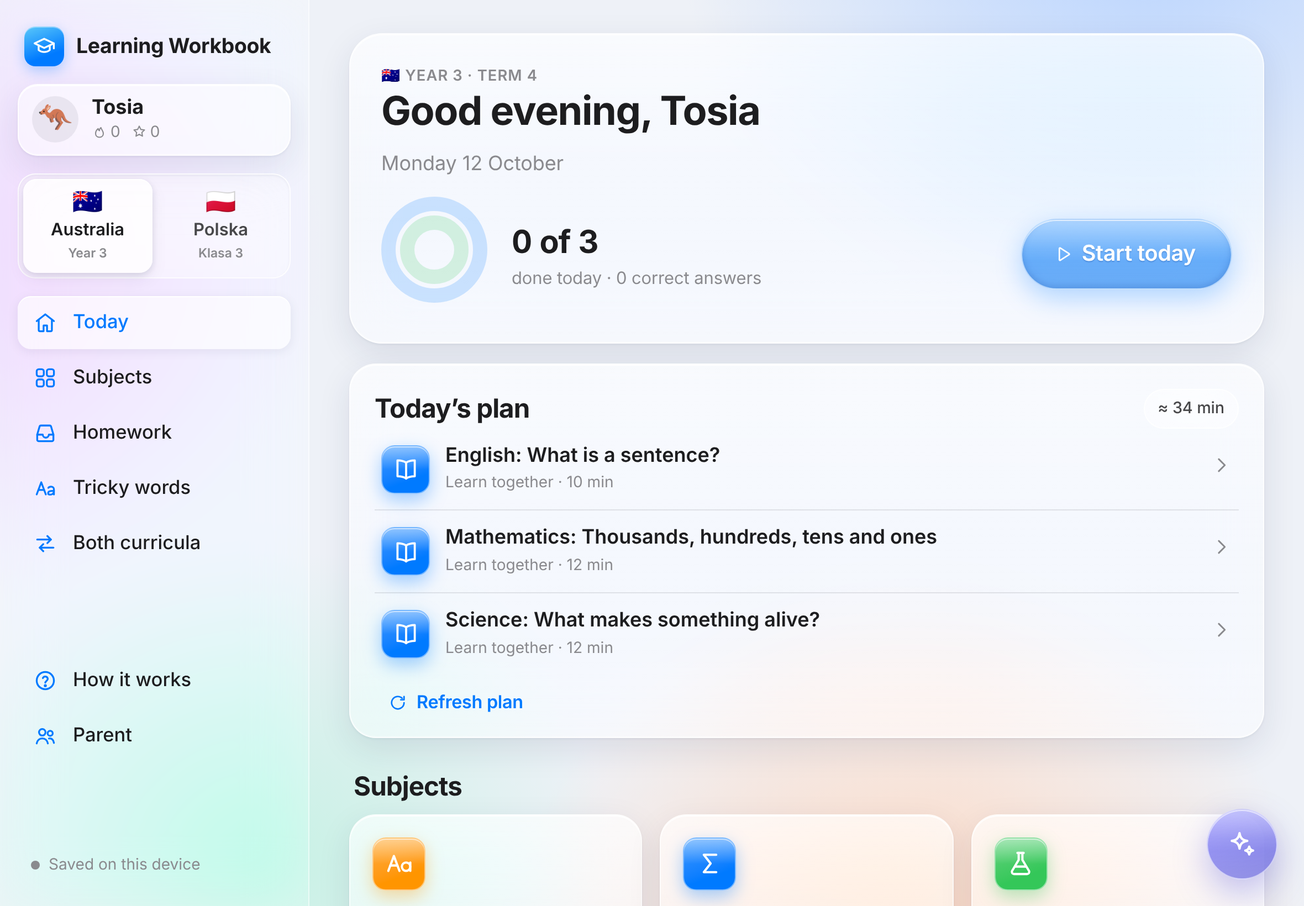
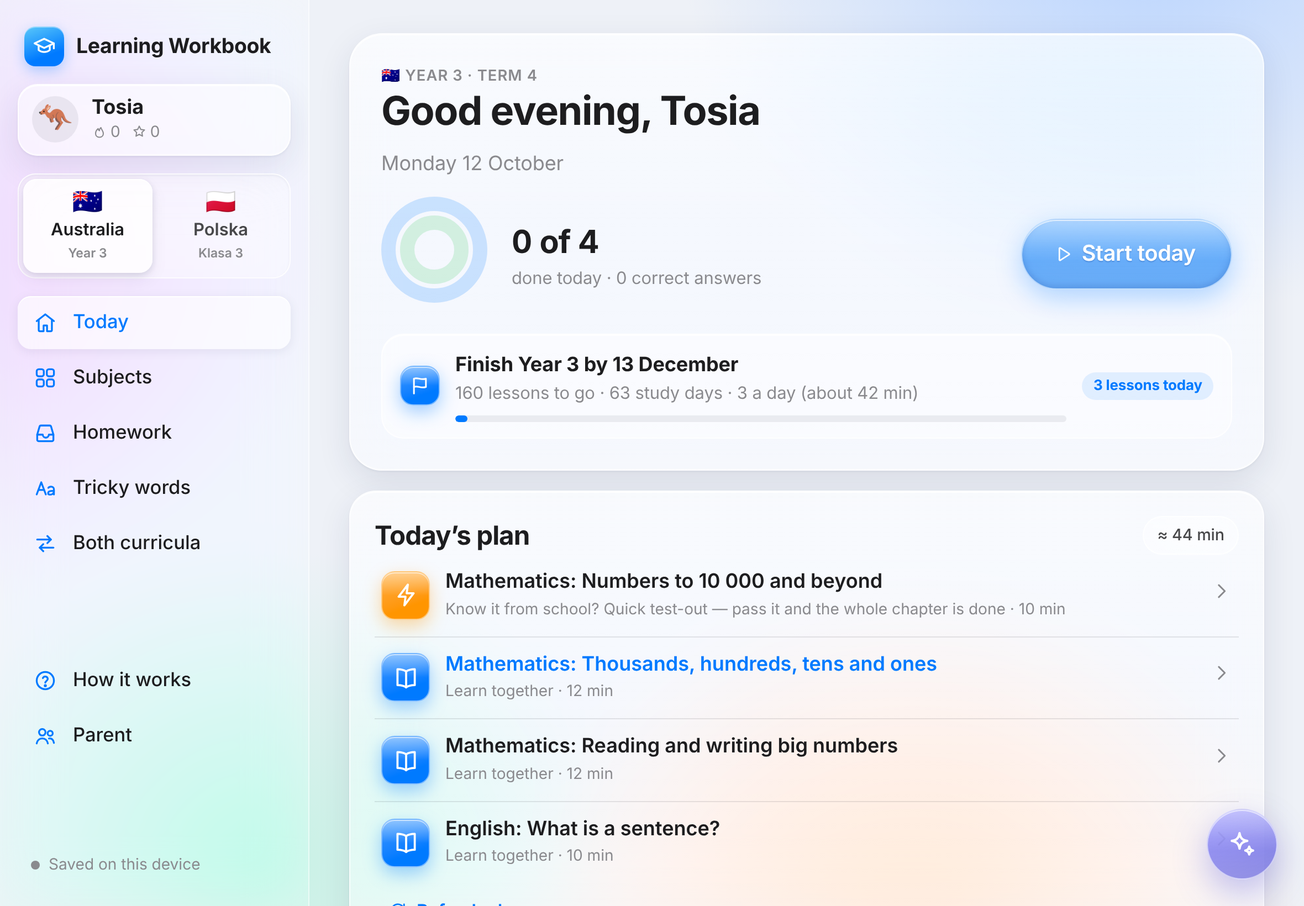
Catch-up mode (finish Year 3 by a target date), setup guide, README, validator
Claude-Session: https://claude.ai/code/session_01VZpCSckw4gYLT4VWM9Vsqh

diff --git a/learn/js/core/tutor.js b/learn/js/core/tutor.js
@@ -13,6 +13,19 @@
   T.PASS_CHALLENGE = 0.75;
   T.PASS_EXAM = 0.85;
 
+  /* next step in a subject, skipping lessons/quizzes already picked for today's plan */
+  T.upcoming = (subj, picked) => {
+    const start = T.startIndex(subj);
+    for (let i = start; i < subj.chapters.length; i++) {
+      const ch = subj.chapters[i];
+      if (S.isChapterPassed(ch.key)) continue;
+      const lesson = ch.lessons.find((l) => !S.isLessonDone(l.key) && !picked.has(l.key));
+      if (lesson) return { kind: 'lesson', chapter: ch, lesson };
+      if (ch.lessons.some((l) => picked.has(l.key))) continue; // quiz comes after today's lessons are done
+      if (!picked.has('quiz:' + ch.key)) return { kind: 'quiz', chapter: ch };
+    }
+    return null;
+  };
   T.subjects = (prog) => (LA.curriculum[S.ck(prog)] || { subjects: [] }).subjects;
   T.startIndex = (subj) => S.P().startPoints[subj.key] || 0;
 
@@ -26,6 +39,46 @@
       return { kind: 'quiz', chapter: ch };
     }
     return null;
+  };
+
+  /* ---------- catch-up to a target date ---------- */
+  T.target = (prog) => { const t = ((S.settings().target || {})[prog] || '').trim(); return /^\d{4}-\d{2}-\d{2}$/.test(t) ? t : null; };
+  const isStudyDay = (d) => { const mode = S.settings().studyDays || 'all'; const w = d.getDay(); return mode === 'all' || (mode === 'mon-sat' ? w !== 0 : w !== 0 && w !== 6); };
+  T.studyDaysBetween = (from, toKey) => {
+    const end = new Date(toKey + 'T23:59:59');
+    const d = new Date(from.getFullYear(), from.getMonth(), from.getDate());
+    let n = 0;
+    while (d <= end && n < 400) { if (isStudyDay(d)) n++; d.setDate(d.getDate() + 1); }
+    return n;
+  };
+  /* lessons still to do (chapters already passed or tested out count as done) */
+  T.remaining = (subj) => {
+    let n = 0;
+    const start = T.startIndex(subj);
+    subj.chapters.forEach((ch, i) => { if (i < start || S.isChapterPassed(ch.key)) return; ch.lessons.forEach((l) => { if (!S.isLessonDone(l.key)) n++; }); });
+    return n;
+  };
+  T.lessonsDoneOn = (prog, dayKey) => {
+    const pre = LA.PROGRAMMES[prog].prefix(S.yearFor(prog)) + '.';
+    const L = S.P().lessons;
+    return Object.keys(L).filter((k) => k.startsWith(pre) && L[k].done && L[k].at && U.todayKey(new Date(L[k].at)) === dayKey).length;
+  };
+  T.catchUp = (prog) => {
+    const t = T.target(prog);
+    if (!t || !S.P()) return null;
+    const enrichOn = (S.settings().enrichment || {})[prog] !== false;
+    const subs = T.subjects(prog).filter((s) => enrichOn || !s.enrichment);
+    const bySubject = subs.map((s) => ({ s, left: T.remaining(s) }));
+    const left = bySubject.reduce((a, x) => a + x.left, 0);
+    const today = new Date();
+    const doneToday = T.lessonsDoneOn(prog, U.todayKey());
+    const days = Math.max(1, T.studyDaysBetween(today, t));
+    // today's quota counts lessons already done today, so it doesn't grow during the day
+    const perDay = left + doneToday === 0 ? 0 : Math.ceil((left + doneToday) / days);
+    const todo = Math.max(0, perDay - doneToday);
+    const past = new Date(t + 'T23:59:59') < today;
+    const level = perDay <= 3 ? 'comfortable' : perDay <= 5 ? 'busy' : 'heavy';
+    return { target: t, left, days, perDay, doneToday, todo, past, level, bySubject, minutes: perDay * 14 };
   };
 
   T.subjectStats = (subj) => {
@@ -174,7 +227,7 @@
   const ALT_DAYS = [[1, 3, 5, 0], [2, 4, 6]];
   const ENRICH_DAYS = [3, 5, 6];
 
-  T.planToday = (prog, force) => {
+  T.planToday = (prog, force, extra) => {
     const P = S.P();
     const key = U.todayKey() + '|' + prog;
     if (P.homework[key] && !force) return P.homework[key];
@@ -196,13 +249,33 @@
       .forEach((k) => add({ kind: 'hw', ref: k, title: `${sname(k)}: ${LA.index.lessons[k].title}` }, MIN.hw));
 
     // 3. new lessons to learn together
+    const cu = T.catchUp(prog);
+    if (cu && !cu.past && cu.left > 0) {
+      // Catch-up mode: schedule today's quota, spread over the subjects with the most left to do
+      const queue = cu.bySubject.filter((x) => x.left > 0).map((x) => ({ s: x.s, left: x.left, taken: 0 }));
+      let need = cu.todo + (extra || 0);
+      // offer one quick test-out for a fresh chapter she may already know from school (saves a whole chapter)
+      const fresh = queue.slice().sort((a, b) => (['maths', 'matematyka'].includes(b.s.id) ? 1 : 0) - (['maths', 'matematyka'].includes(a.s.id) ? 1 : 0)).map((x) => T.nextStep(x.s)).find((st) => st && st.chapter.bridge && st && st.kind === 'lesson' && st.chapter.lessons.every((l) => !S.isLessonDone(l.key)) && !(S.chapter(st.chapter.key) && S.chapter(st.chapter.key).attempts.length) && st.chapter.lessons.length >= 3);
+      if (fresh && need > 0) add({ kind: 'testout', ref: fresh.chapter.key, title: `${sname(fresh.chapter.key)}: ${fresh.chapter.title}`, subject: fresh.chapter.subjectKey }, MIN.quiz);
+      const picked = new Set();
+      for (let guard = 0; need > 0 && guard < 60; guard++) {
+        queue.sort((a, b) => (b.left - b.taken * 3) - (a.left - a.taken * 3));
+        const q = queue[0];
+        if (!q || q.left - q.taken <= 0) break;
+        const st = T.upcoming(q.s, picked);
+        if (!st) { q.left = 0; continue; }
+        q.taken++;
+        if (st.kind === 'lesson') { picked.add(st.lesson.key); add({ kind: 'lesson', ref: st.lesson.key, title: `${q.s.name}: ${st.lesson.title}`, subject: q.s.id }, st.lesson.minutes || MIN.lesson); need--; }
+        else { picked.add('quiz:' + st.chapter.key); add({ kind: 'quiz', ref: st.chapter.key, title: `${q.s.name}: ${LA.tr('check-up quiz', 'sprawdzian')} — ${st.chapter.title}`, subject: q.s.id }, MIN.quiz); }
+      }
+    }
     const w = new Date().getDay();
     const core = subs.filter((s) => ['english', 'maths', 'polski', 'matematyka'].includes(s.id));
     const alt = subs.filter((s) => !s.enrichment && !core.includes(s));
     const enrich = (S.settings().enrichment || {})[prog] !== false ? subs.filter((s) => s.enrichment) : [];
     const todays = core.concat(alt.filter((s, i) => ALT_DAYS[i % 2].includes(w))).concat(enrich.filter((s, i) => ENRICH_DAYS[i % 3] === w));
     const others = alt.concat(enrich).filter((s) => !todays.includes(s));
-    for (const s of todays.concat(others)) {
+    for (const s of (cu && !cu.past && cu.left > 0 ? [] : todays.concat(others))) {
       if (used >= budget && items.some((i) => i.kind === 'lesson' || i.kind === 'quiz')) break;
       const step = T.nextStep(s);
       if (!step) continue;
@@ -210,7 +283,7 @@
       else add({ kind: 'quiz', ref: step.chapter.key, title: `${s.name}: ${LA.tr('check-up quiz', 'sprawdzian')} — ${step.chapter.title}`, subject: s.id }, MIN.quiz);
     }
     // catch-up: one more lesson in the subject most behind
-    if (used < budget) {
+    if (used < budget && !(cu && cu.left > 0)) {
       const most = subs.map((s) => ({ s, st: T.subjectStats(s) })).filter((x) => x.st.behind > 0).sort((a, b) => b.st.behind - a.st.behind)[0];
       if (most) {
         const step = T.nextStep(most.s);

diff --git a/learn/js/ui/views.js b/learn/js/ui/views.js
@@ -221,29 +221,54 @@
         h('div', { style: { flex: 1, minWidth: '180px' } },
           h('div.ring-num', total ? `${doneN} ${tr('of', 'z')} ${total}` : tr('All done', 'Gotowe')),
           h('div.small.muted', tr(`done today · ${today.correct || 0} correct answers`, `zrobione dziś · ${today.correct || 0} dobrych odpowiedzi`))),
-        nextItem ? h('button.btn.big', { type: 'button', onclick: () => openPlanItem(nextItem) }, LA.icon('play', 18), doneN ? tr('Continue', 'Dalej') : tr('Start today', 'Zaczynamy')) : null)));
+        nextItem ? h('button.btn.big', { type: 'button', onclick: () => openPlanItem(nextItem) }, LA.icon('play', 18), doneN ? tr('Continue', 'Dalej') : tr('Start today', 'Zaczynamy')) : null),
+      catchUpBar(prog)));
 
     const planCard = h('div.card', { style: { marginTop: '18px', paddingBottom: '10px' } },
       h('div.row', h('h2', { style: { margin: 0 } }, tr('Today’s plan', 'Plan na dziś')), h('span.spacer'), h('span.chip', `≈ ${plan.items.reduce((s, i) => s + i.minutes, 0)} min`)));
     const list = h('div.plan');
     if (!plan.items.length) list.appendChild(h('p', tr('Everything is done for this year level. Try a practice exam or the challenges!', 'Wszystko zrobione na tym poziomie. Spróbuj próbnego sprawdzianu albo zadań z gwiazdką!')));
-    const KIND = { lesson: ['book', '#007aff', tr('Learn together', 'Lekcja razem')], hw: ['pencil', '#ff9500', tr('Homework · on your own', 'Praca domowa · samodzielnie')], quiz: ['doc', '#5856d6', tr('Check-up quiz', 'Sprawdzian')], remediation: ['target', '#ff2d55', tr('Extra practice', 'Dodatkowe ćwiczenia')], review: ['repeat', '#30b0c7', tr('Quick review', 'Szybka powtórka')], spelling: ['textformat', '#af52de', tr('Spelling', 'Ortografia')] };
+    const KIND = { lesson: ['book', '#007aff', tr('Learn together', 'Lekcja razem')], hw: ['pencil', '#ff9500', tr('Homework · on your own', 'Praca domowa · samodzielnie')], quiz: ['doc', '#5856d6', tr('Check-up quiz', 'Sprawdzian')], remediation: ['target', '#ff2d55', tr('Extra practice', 'Dodatkowe ćwiczenia')], review: ['repeat', '#30b0c7', tr('Quick review', 'Szybka powtórka')], testout: ['bolt', '#ff9500', tr('Know it from school? Quick test-out — pass it and the whole chapter is done', 'Znasz to ze szkoły? Szybki test — zaliczysz go, a cały rozdział będzie zrobiony')], spelling: ['textformat', '#af52de', tr('Spelling', 'Ortografia')] };
     plan.items.forEach((it) => {
       const k = KIND[it.kind];
       list.appendChild(h('button.plan-item' + (it.done ? '.done' : ''), { type: 'button', onclick: () => openPlanItem(it) }, LA.appIcon(k[0], k[1], 44), h('div', { style: { flex: 1 } }, h('div.t', it.title), h('div.k', `${k[2]} · ${it.minutes} min`)), it.done ? h('span.chk', LA.icon('check', 16)) : h('span.go', LA.icon('chevronR', 20))));
     });
     planCard.appendChild(list);
-    if (plan.items.length && plan.items.every((i) => i.done)) planCard.appendChild(h('div.feedback.good', h('h4', tr('All done for today! Brilliant work.', 'Wszystko na dziś zrobione! Świetna robota.'))));
+    if (plan.items.length && plan.items.every((i) => i.done)) {
+      planCard.appendChild(h('div.feedback.good', h('h4', tr('All done for today! Brilliant work.', 'Wszystko na dziś zrobione! Świetna robota.'))));
+      const cu = T.catchUp(prog);
+      if (cu && cu.left > 0) planCard.appendChild(h('div.row', { style: { marginTop: '10px' } }, h('button.btn.secondary', { type: 'button', onclick: () => { T.planToday(prog, true, 1); LA.refresh(); } }, LA.icon('plus', 18), tr('Keep going — add one more lesson', 'Jeszcze jedna lekcja'))));
+    }
     planCard.appendChild(h('div.row', { style: { marginTop: '4px' } }, h('button.btn.ghost.small', { type: 'button', onclick: () => { T.planToday(prog, true); LA.refresh(); } }, LA.icon('refresh', 18), tr('Refresh plan', 'Odśwież plan'))));
     c.appendChild(planCard);
 
     c.appendChild(h('div.section-head', h('h2', tr('Subjects', 'Przedmioty'))));
     c.appendChild(subjectGrid(prog));
   }
+  function catchUpBar(prog) {
+    const cu = T.catchUp(prog);
+    if (!cu) return null;
+    const P = LA.PROGRAMMES[prog];
+    const yl = P.yearLabel(S.yearFor(prog));
+    const when = new Date(cu.target + 'T12:00:00').toLocaleDateString(prog === 'pl' ? 'pl-PL' : 'en-AU', { day: 'numeric', month: 'long' });
+    if (cu.left === 0) return h('div.catchup.done', LA.appIcon('graduation', '#34c759', 36), h('div', h('strong', tr(`${yl} complete!`, `${yl} ukończona!`)), h('div.small.muted', tr('Ready for the next year — a grown-up can switch the grade in Parent → Learners.', 'Gotowe na kolejną klasę — rodzic może zmienić klasę w: Rodzic → Uczniowie.'))));
+    if (cu.past) return h('div.catchup.warn', LA.appIcon('flag', '#ff9500', 36), h('div', h('strong', tr(`Target date passed — ${cu.left} lessons left in ${yl}`, `Termin minął — w ${yl} zostało ${cu.left} lekcji`)), h('div.small.muted', tr('Set a new date in Parent → Settings.', 'Ustaw nowy termin w: Rodzic → Ustawienia.'))));
+    const total = T.subjects(prog).reduce((a, s) => a + s.chapters.reduce((b, ch) => b + ch.lessons.length, 0), 0);
+    const pct = Math.round(100 * (1 - cu.left / Math.max(1, total)));
+    const onTrack = cu.doneToday >= cu.perDay;
+    return h('div.catchup' + (cu.level === 'heavy' ? '.warn' : ''),
+      LA.appIcon('flag', onTrack ? '#34c759' : '#007aff', 36),
+      h('div', { style: { flex: 1, minWidth: '200px' } },
+        h('strong', tr(`Finish ${yl} by ${when}`, `Ukończ ${yl} do ${when}`)),
+        h('div.small.muted', tr(`${cu.left} lessons to go · ${cu.days} study days · ${cu.perDay} a day (about ${cu.minutes} min)`, `zostało ${cu.left} lekcji · ${cu.days} dni nauki · ${cu.perDay} dziennie (ok. ${cu.minutes} min)`)),
+        h('div.bar', { style: { marginTop: '8px' } }, h('span', { style: { width: Math.max(2, pct) + '%', background: 'var(--accent)' } }))),
+      h('span.tag.' + (onTrack ? 'good' : 'info'), onTrack ? tr('On track today', 'Dziś zgodnie z planem') : tr(`${cu.todo} lesson${cu.todo === 1 ? '' : 's'} today`, `${cu.todo} lekcji dziś`)));
+  }
   function openPlanItem(it) {
     if (it.kind === 'lesson') LA.go('lesson/' + it.ref);
     else if (it.kind === 'hw') LA.go('lesson/' + it.ref, { step: 'homework' });
     else if (it.kind === 'quiz') LA.go('quiz/' + it.ref);
+    else if (it.kind === 'testout') LA.go('quiz/' + it.ref, { mode: 'testout' });
     else if (it.kind === 'remediation') LA.go('practice/rem/' + it.ref);
     else if (it.kind === 'spelling') LA.go('words', { start: 1 });
     else LA.go('practice/skill/' + it.ref, { review: 1 });
@@ -583,6 +608,7 @@
     }
     function show(results) {
       const r = T.afterQuiz(ch, results, mode);
+      if (mode === 'testout') T.markPlan('testout', ch.key);
       T.markPlan('quiz', ch.key);
       area.innerHTML = '';
       if (r.passed) UI.confetti();

diff --git a/learn/js/ui/parent.js b/learn/js/ui/parent.js
@@ -186,6 +186,19 @@
       pace.appendChild(h('div.card.soft.col', h('strong', LA.PROGRAMMES[prog].flag + ' ' + LA.PROGRAMMES[prog].name), sel,
         h('label.check', en, prog === 'au' ? tr('Include Health, The Arts and Technologies (about once a week each)', 'Uwzględnij Health, The Arts i Technologies (ok. raz w tygodniu)') : tr('Include Plastyka/muzyka and Technika/informatyka (about once a week)', 'Uwzględnij plastykę/muzykę i technikę/informatykę (ok. raz w tygodniu)'))));
     });
+    const tgt = h('div.card.soft.col', h('strong', tr('Catch-up: finish the year by a date', 'Nadrabianie: ukończ klasę do daty')),
+      h('p.small.muted', tr('The daily plan then schedules exactly enough lessons to finish every subject in time, and offers quick test-outs for topics she already knows from school. Leave empty for the normal school-year pace.', 'Plan dnia ułoży wtedy tyle lekcji, by zdążyć ze wszystkimi przedmiotami, i zaproponuje szybkie testy z tematów znanych ze szkoły. Puste = zwykłe tempo roku szkolnego.')));
+    ['au', 'pl'].forEach((prog) => {
+      const inp = h('input', { type: 'date', value: (st.target || {})[prog] || '', 'aria-label': 'Target ' + prog, style: { maxWidth: '220px' } });
+      const out = h('span.small.muted');
+      const info = () => { const cu = S.activeProfile() ? T.catchUp(prog) : null; out.textContent = cu ? tr(`${cu.left} lessons left · ${cu.days} study days → ${cu.perDay} a day (≈${cu.minutes} min)`, `zostało ${cu.left} lekcji · ${cu.days} dni → ${cu.perDay} dziennie (≈${cu.minutes} min)`) : ''; };
+      inp.addEventListener('change', () => { st.target = Object.assign({}, st.target, { [prog]: inp.value }); save(); if (S.activeProfile()) T.planToday(prog, true); info(); });
+      info();
+      tgt.appendChild(h('div.row', h('span', { style: { minWidth: '150px' } }, LA.PROGRAMMES[prog].flag + ' ' + LA.PROGRAMMES[prog].short), inp, h('button.btn.ghost.small', { type: 'button', onclick: () => { inp.value = ''; inp.dispatchEvent(new Event('change')); } }, tr('Clear', 'Wyczyść')), out));
+    });
+    const days = h('div.seg', [['all', tr('Every day', 'Codziennie')], ['mon-sat', tr('Mon–Sat', 'Pon–sob')], ['weekdays', tr('Weekdays', 'Dni robocze')]].map(([v, l]) => { const bb = h('button' + ((st.studyDays || 'all') === v ? '.on' : ''), { type: 'button' }, l); bb.addEventListener('click', () => { st.studyDays = v; save(); ['au', 'pl'].forEach((pp) => { if (S.activeProfile()) T.planToday(pp, true); }); LA.refresh(); }); return bb; }));
+    tgt.appendChild(h('div', h('label.field', tr('Study days', 'Dni nauki')), days));
+    pace.appendChild(tgt);
     pace.appendChild(h('p.small.muted', tr('English/Polish and Maths come every day; Science and HASS/Historia alternate; enrichment subjects come about once a week. PE is not included (it is done at school).', 'Język i matematyka są codziennie; przyroda i historia na zmianę; przedmioty dodatkowe ok. raz w tygodniu. WF nie jest uwzględniony (jest w szkole).')));
     c.appendChild(pace);
     // pencil & display

diff --git a/learn/js/core/store.js b/learn/js/core/store.js
@@ -21,6 +21,9 @@
     parentLang: 'en',
     pencilFirst: false,
     micForSpelling: false,
+    // Catch-up: finish a programme's year by a date (e.g. Australian Year 3 by mid-December before starting Year 4 in Australia)
+    target: { au: '', pl: '' },
+    studyDays: 'all', // 'all' = every day, 'mon-sat', 'weekdays'
   };
 
   function blankProgress() {
@@ -45,6 +48,13 @@
     if (typeof s.settings.rate !== 'object') s.settings.rate = { 'en-AU': +s.settings.rate || 0.92, 'pl-PL': 0.95 };
     if (typeof s.settings.minutes !== 'object') s.settings.minutes = { au: +s.settings.dailyMinutes || 30, pl: 30 };
     if (typeof s.settings.enrichment !== 'object') s.settings.enrichment = { au: true, pl: true };
+    if (typeof s.settings.target !== 'object' || !s.settings.target) s.settings.target = { au: '', pl: '' };
+    if (s.settings.targetDefaulted !== true) {
+      // first run: Australian Year 3 should be finished by mid-December (start of the Australian school year 4 in late January)
+      const now = new Date(), y = now.getFullYear();
+      if (!s.settings.target.au && now < new Date(y, 11, 13)) s.settings.target.au = y + '-12-13';
+      s.settings.targetDefaulted = true;
+    }
     s.profiles = (s.profiles || []).map((p) => {
       if (!p.au) p.au = { year: +p.year || 3, on: true };
       if (!p.pl) p.pl = { year: 3, on: true };

diff --git a/learn/tests/e2e.js b/learn/tests/e2e.js
@@ -67,7 +67,9 @@ const ok = (c, m) => { console.log((c ? 'PASS ' : 'FAIL ') + m); if (!c) fails++
   // AI key for AI features
   await p.evaluate(() => { LA.store.state().settings.apiKey = 'sk-test'; LA.store.saveMain(); });
   // lesson flow via Start today
-  await p.click('.hero .btn.big');
+  ok(await p.locator('.catchup').count() === 1, 'catch-up bar shows the mid-December target');
+  ok(await p.locator('.plan-item:has-text("test-out")').count() >= 1, 'plan offers a quick test-out');
+  await p.locator('.plan-item:has-text("Learn together")').first().click();
   await p.waitForTimeout(250);
   ok(await p.locator('.step-card').count() === 1, 'lesson opens on Learn together');
   for (let i = 0; i < 12 && (await p.locator('button:has-text("Next step")').count()); i++) { await p.click('button:has-text("Next step")'); await p.waitForTimeout(40); }

diff --git a/learn/css/app.css b/learn/css/app.css
@@ -472,3 +472,8 @@ input[type="text"], input[type="password"], input[type="number"], input[type="em
 @media (prefers-reduced-transparency: reduce) {
   :root { --glass: rgba(255,255,255,0.92); --glass-strong: #fff; --glass-soft: rgba(255,255,255,0.85); }
 }
+
+.catchup { display: flex; align-items: center; gap: 14px; flex-wrap: wrap; margin-top: 20px; padding: 14px 16px; border-radius: 20px; background: rgba(255,255,255,0.45); border: 1px solid rgba(255,255,255,0.75); box-shadow: inset 0 1px 0 rgba(255,255,255,0.9); }
+.catchup.warn { background: rgba(255,149,0,0.12); }
+.catchup.done { background: rgba(52,199,89,0.14); }
+:root[data-theme="dark"] .catchup { background: rgba(255,255,255,0.06); border-color: rgba(255,255,255,0.12); }

diff --git a/learn/tests/validate.js b/learn/tests/validate.js
@@ -1,5 +1,3 @@
-// Content validator: loads every curriculum file without a browser and expands every lesson, homework, quiz, challenge and exam.
-// Run: node tests/validate.js [au3|au4|pl3|pl4]
 // Loads core + content scripts (no UI) into a fake window and validates every lesson/quiz/challenge.
 const fs = require('fs'), vm = require('vm'), path = require('path');
 const ROOT = path.join(__dirname, '..') + '/';

diff --git a/learn/SETUP.md b/learn/SETUP.md
@@ -1,0 +1,67 @@
+# Setup guide (one time, about 15 minutes)
+
+The app works straight away on one device. These two steps give it its own web address
+(needed for the iPad microphone and Home Screen install) and a family cloud account
+(log in on the iPad and the computer, with automatic backups).
+
+## 1. Give the app a web address (GitHub Pages)
+
+1. Merge the branch `claude/aus-curriculum-y3-y4` into `main` on GitHub.
+2. On GitHub open the repository → **Settings → Pages** → under *Build and deployment*
+   choose **Source: GitHub Actions**.
+3. The workflow *Publish to GitHub Pages* runs on every push to `main`. When it finishes,
+   the app is at:
+   `https://docmikenoosa.github.io/Math-app-for-child/learn/`
+
+   (GitHub Pages is free for public repositories; a private repository needs a paid GitHub plan.)
+
+## 2. Family cloud account (Firebase, free tier)
+
+1. Go to <https://console.firebase.google.com> → **Add project** (any name, e.g. `tosia-workbook`).
+   Google Analytics is not needed.
+2. **Authentication** → *Get started* → **Sign-in method** → enable **Email/Password**.
+   Then **Settings → Authorised domains** → *Add domain* → `docmikenoosa.github.io`.
+3. **Firestore Database** → *Create database* → choose a location (e.g. `australia-southeast1`
+   or `europe-central2`) → start in **production mode**.
+   Open the **Rules** tab, replace everything with the contents of [`firestore.rules`](firestore.rules) and **Publish**.
+   These rules mean only your family login can read or write your data.
+4. **Project settings** (gear icon) → *Your apps* → click the **web** icon `</>` → register an app
+   (no hosting needed). Copy the `firebaseConfig = { … }` block.
+5. Put the config in the app — either:
+   - **easiest:** open the app → **Parent → Cloud & backup** → paste the block → **Connect**
+     (do this once on each device), or
+   - **once for all devices:** paste it into [`js/config.js`](js/config.js) (`firebase: { … }`) and push.
+6. In the app: **Parent → Cloud & backup → Create family account** (email + password).
+   On every other device: **Sign in** with the same email and password.
+
+## 3. AI tutor (optional)
+
+Get an API key at <https://console.anthropic.com> → *API keys*, then **Parent → Settings → AI tutor**.
+It powers the tutor chat, alternative explanations, AI-made practice, handwriting reading and the progress
+assessment. Usage is billed to your Anthropic account. When signed in to the family cloud the key is kept
+in your private cloud space, so every device has it.
+
+## 4. On the iPad
+
+- Open the address in **Safari** → Share → **Add to Home Screen**. It then opens full-screen and works offline.
+- Best voices: Settings → Accessibility → Spoken Content → Voices → **English (Australia) → Karen**
+  and **Polish → Zosia** (download the *Enhanced* versions).
+- The first time she taps the microphone, allow access (Settings → Safari → Microphone if it was declined).
+
+## How work is protected
+
+1. Saved instantly on the device, with a second copy in the browser’s database.
+2. Daily snapshots on the device (30 days) and one before every sync or restore.
+3. Live cloud sync between devices — copies are merged, finished work is never overwritten.
+4. A dated cloud backup every day (kept 60 days), restorable from **Parent → Cloud & backup**.
+5. Backup files you can save to Files / iCloud Drive (a reminder appears monthly).
+
+## Tests (for developers)
+
+```
+cd learn
+node tests/validate.js            # checks every lesson, quiz, challenge and exam in all four programmes
+python3 -m http.server 8765 &     # then, with Playwright installed:
+node tests/e2e.js                 # walks through both programmes in a browser
+node tests/cloud.test.js          # two-device sync test (needs the Firebase emulators running)
+```

diff --git a/learn/README.md b/learn/README.md
@@ -1,4 +1,28 @@
-# Aussie Learning Workbook — Year 3 & Year 4
+# Tosia's Workbook — Australian and Polish curriculum, Year/Klasa 3 and 4
+
+A homeschool workbook for the iPad and the computer with two complete programmes:
+
+- **🇦🇺 Australian Curriculum** (in English, Australian female read-aloud voice, tutor "Koa"):
+  Year 3 — 160 lessons, Year 4 — 143 lessons across English, Maths, Science, HASS, Health, The Arts and Technologies
+  (PE movement chapters left out — done at school).
+- **🇵🇱 Polska podstawa programowa** (po polsku, polski głos, asystentka „Sowa Zosia”):
+  klasa 3 — 135 lekcji, klasa 4 — 135 lekcji (polski, matematyka, przyroda, edukacja społeczna/historia, plastyka i muzyka, technika i informatyka).
+
+Each lesson runs **Learn together → Practise together → Homework on her own**, with chapter quizzes,
+★ above-grade challenges, end-of-year practice exams, a parent portal (below/on/above par, AI advice, extra work),
+voice answers, Apple Pencil handwriting, spelling and dictation practice.
+
+**Catch-up mode:** set a finish date (default: Australian Year 3 by 13 December) and the daily plan schedules exactly
+enough lessons — about 3 a day, ~40 minutes — with quick test-outs for topics already known from school.
+
+**Saving:** on-device + family cloud account (Firebase) with live merge, daily device snapshots, daily cloud backups
+and backup files. Works offline and installs on the iPad Home Screen.
+
+👉 **Setup (once): see [SETUP.md](SETUP.md).**
+
+---
+
+## Original notes (first version)
 
 A homework workbook app for **Year 3 and Year 4** covering every learning area of the
 **Australian Curriculum v9.0** that schools teach to all students, with read-aloud,

diff --git a/README.md b/README.md
@@ -1,4 +1,4 @@
-> **Also in this repo:** [`learn/`](learn/README.md) — *Aussie Learning Workbook*, a Year 3 & Year 4 Australian Curriculum homework app. Open `learn/index.html`.
+> **Also in this repo:** [`learn/`](learn/README.md) — *Tosia's Workbook*, Australian and Polish curriculum (Year/Klasa 3 and 4). Setup: [`learn/SETUP.md`](learn/SETUP.md).
 
 # RyczałtRx — Medical Practice Take-Home Calculator
 
